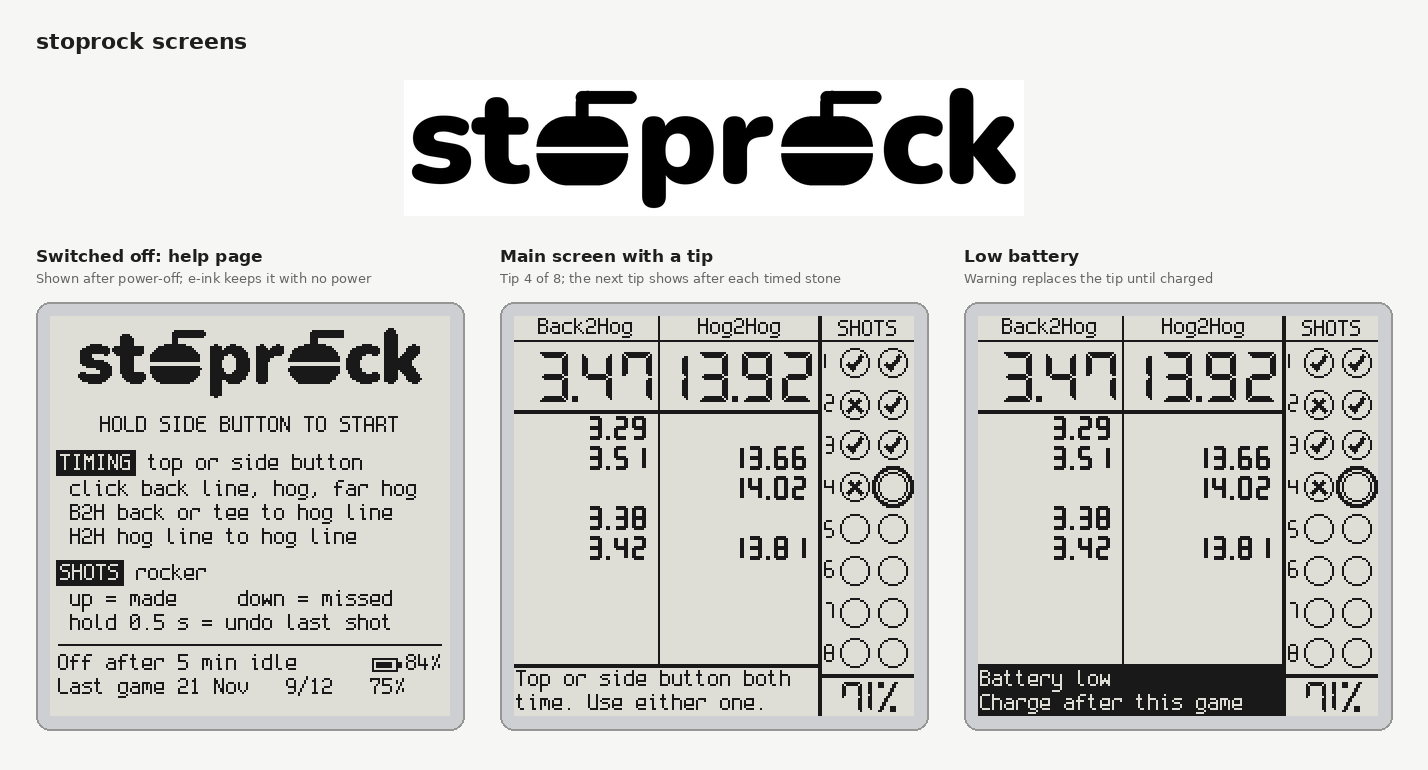
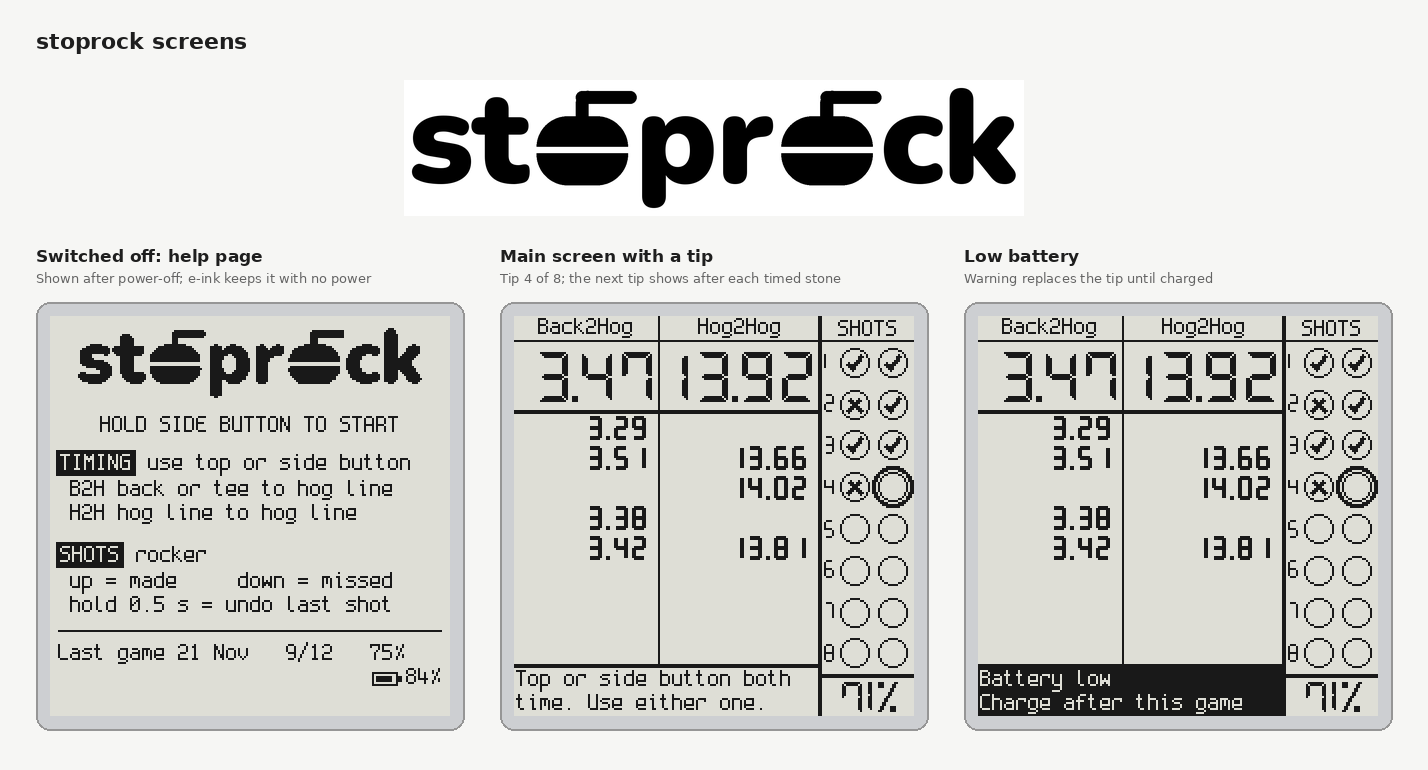
Help page: "use top or side button"; drop the click and switch-off lines
The battery charge moves to its own row, bottom right, under the last game.

Claude-Session: https://claude.ai/code/session_01YA9zoncxe9XeMCwR12hQbC

Changed region(s): [[0.0308, 0.5922, 0.3081, 0.9039]]

diff --git a/firmware/lib/stoprock_ui/src/screens.cpp b/firmware/lib/stoprock_ui/src/screens.cpp
@@ -233,17 +233,17 @@ void drawHelp(Canvas& c, const char* lastGame, int battery) {
     const char* head = "HOLD SIDE BUTTON TO START";
     c.text(f, (W - static_cast<int>(strlen(head)) * 6) / 2, y, head);
     y += 18;
-    tag("TIMING", "top or side button");
-    line(" click back line, hog, far hog");
+    tag("TIMING", "use top or side button");
     line(" B2H back or tee to hog line");
     line(" H2H hog line to hog line");
-    y += 5;
+    y += 8;
     tag("SHOTS", "rocker");
     line(" up = made     down = missed");
     line(" hold 0.5 s = undo last shot");
-    y += 4;
+    y += 6;
     c.line(4, y, 195, y);
-    y += 4;
+    y += 6;
+    line(lastGame);
     if (battery >= 0) {  // battery at switch-off, bottom right: icon and percentage
         char pct[6];
         snprintf(pct, sizeof pct, "%d%%", battery > 100 ? 100 : battery);
@@ -256,9 +256,8 @@ void drawHelp(Canvas& c, const char* lastGame, int battery) {
         const int fill = pyRound(9.0 * (battery > 100 ? 100 : battery) / 100);
         if (fill > 0) c.fillRect(bx + 2, y + 5, bx + 2 + fill - 1, y + 7);
         c.text(f, bx + 17, y, pct);
+        y += 12;
     }
-    line("Off after 5 min idle");
-    line(lastGame);
 }
 
 }  // namespace stoprock

diff --git a/tools/mockups/screen.py b/tools/mockups/screen.py
@@ -263,17 +263,17 @@ def help_page(device_logo, last_game, battery=None):
     t = "HOLD SIDE BUTTON TO START"
     d.text(((W - len(t) * 6) // 2, y), t, font=f, fill=0)
     y += 18
-    tag("TIMING", "top or side button")
-    line(" click back line, hog, far hog")
+    tag("TIMING", "use top or side button")
     line(" B2H back or tee to hog line")
     line(" H2H hog line to hog line")
-    y += 5
+    y += 8
     tag("SHOTS", "rocker")
     line(" up = made     down = missed")
     line(" hold 0.5 s = undo last shot")
-    y += 4
+    y += 6
     d.line([(4, y), (195, y)], fill=0)
-    y += 4
+    y += 6
+    line(last_game)
     if battery is not None:  # battery at switch-off, bottom right: icon and percentage
         pct = f"{battery}%"
         bx = W - 4 - (17 + 6 * len(pct))
@@ -283,8 +283,7 @@ def help_page(device_logo, last_game, battery=None):
         if fill > 0:
             d.rectangle([bx + 2, y + 5, bx + 2 + fill - 1, y + 7], fill=0)
         d.text((bx + 17, y), pct, font=f, fill=0)
-    line("Off after 5 min idle")
-    line(last_game)
+        y += 12
     assert y <= H, f"help page overflows: {y}"
     return img
 

diff --git a/docs/SPEC.md b/docs/SPEC.md
@@ -132,8 +132,7 @@ stoprock logo (176 px), then Spleen 6×12:
 ```
      HOLD SIDE BUTTON TO START
 
- [TIMING] top or side button
-  click back line, hog, far hog
+ [TIMING] use top or side button
   B2H back or tee to hog line
   H2H hog line to hog line
 
@@ -141,8 +140,8 @@ stoprock logo (176 px), then Spleen 6×12:
   up = made     down = missed
   hold 0.5 s = undo last shot
  ─────────────────────────────
- Off after 5 min idle    [▭] 84%
  Last game 21 Nov   9/12   75%
+                       [▭] 84%
 ```
 
 `[TIMING]` and `[SHOTS]` are white-on-black labels. The last line shows the most recent game.
